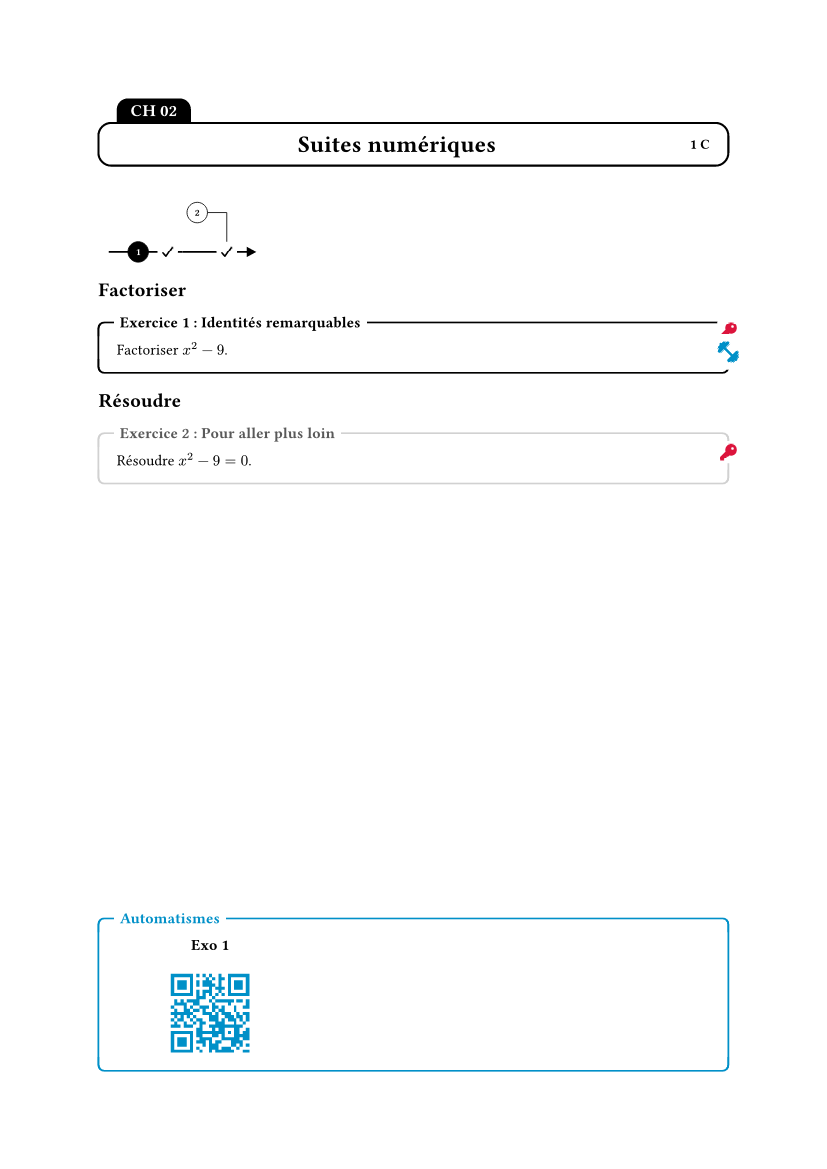
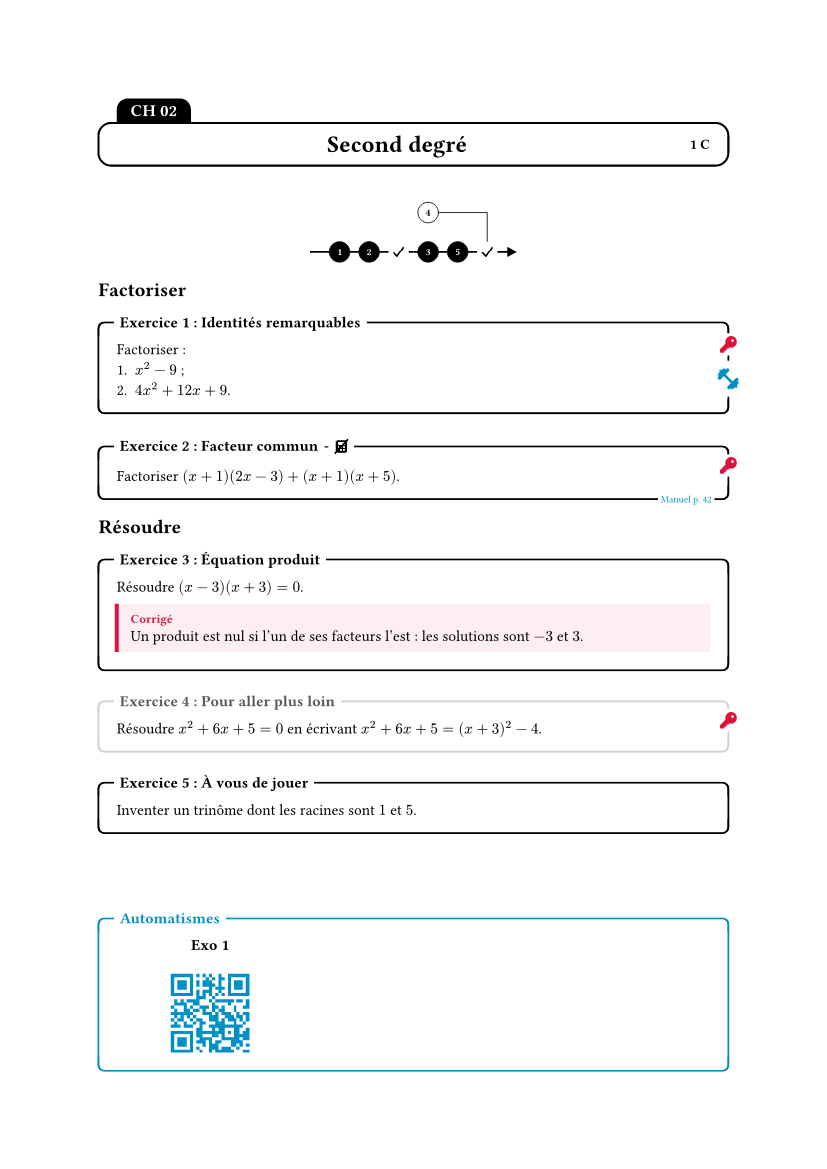
profmaquette-minimal:0.2.0 — fuller quick-start example in the README

diff --git a/packages/preview/profmaquette-minimal/0.2.0/README.md b/packages/preview/profmaquette-minimal/0.2.0/README.md
@@ -16,7 +16,7 @@ titre, corrigés affichés ou non d'un seul réglage, et un mode « interro »
 ProfMaquette. See the [documentation, in French](https://amjmeyer.github.io/profmaquette-minimal/).*
 
 <p align="center">
-  <img src="docs/exemple-1.png" width="45%" alt="Page 1 du démarrage rapide ci-dessous : cartouche CH 02 Suites numériques 1 C, feuille de route, exercices encadrés avec clé et haltère, bloc Automatismes">
+  <img src="docs/exemple-1.png" width="45%" alt="Page 1 du démarrage rapide ci-dessous : cartouche CH 02 Second degré 1 C, feuille de route centrée, exercices encadrés avec clé, haltère, source, calculatrice barrée et zone Seyes avec sa réponse, bloc Automatismes">
   <img src="docs/exemple-2.png" width="45%" alt="Page 2 du démarrage rapide : corrigés regroupés en fin de fiche">
 </p>
 
@@ -29,25 +29,45 @@ Le code ci-dessous donne exactement les deux pages ci-dessus.
 
 #show: maquette.with(
   position-corriges: "fin",
-  titre-maquette: (gauche: "CH 02", centre: "Suites numériques", droite: "1 C"),
+  titre-maquette: (gauche: "CH 02", centre: "Second degré", droite: "1 C"),
 )
 
-#afficher-fdr
+#align(center, afficher-fdr)
 
 #thematique[Factoriser]
 #exercice(titre: "Identités remarquables", entrainement: "https://exemple.fr")[
-  Factoriser $x^2 - 9$.
+  Factoriser :
+  + $x^2 - 9$ ;
+  + $4x^2 + 12x + 9$.
 ]
 #corrige[
-  $x^2 - 9 = (x - 3)(x + 3)$.
+  + $x^2 - 9 = (x - 3)(x + 3)$.
+  + $4x^2 + 12x + 9 = (2x + 3)^2$.
+]
+
+#exercice(titre: "Facteur commun", source: "Manuel p. 42", calculatrice: false)[
+  Factoriser $(x + 1)(2x - 3) + (x + 1)(x + 5)$.
+]
+#corrige[
+  $(x + 1)(2x - 3 + x + 5) = (x + 1)(3x + 2)$.
 ]
 
 #thematique[Résoudre]
+#exercice(titre: "Équation produit")[
+  Résoudre $(x - 3)(x + 3) = 0$.
+  #seyes(2, afficher: true)[Un produit est nul si l'un de ses facteurs l'est :
+    les solutions sont $-3$ et $3$.]
+]
+
 #exercice(titre: "Pour aller plus loin", route: false)[
-  Résoudre $x^2 - 9 = 0$.
+  Résoudre $x^2 + 6x + 5 = 0$ en écrivant $x^2 + 6x + 5 = (x + 3)^2 - 4$.
 ]
 #corrige[
-  Les solutions sont $-3$ et $3$.
+  $(x + 3)^2 = 4$, donc $x + 3 = 2$ ou $x + 3 = -2$ : les solutions sont $-1$ et $-5$.
+]
+
+#exercice(titre: "À vous de jouer", pas-corrige: true)[
+  Inventer un trinôme dont les racines sont $1$ et $5$.
 ]
 ```
 
